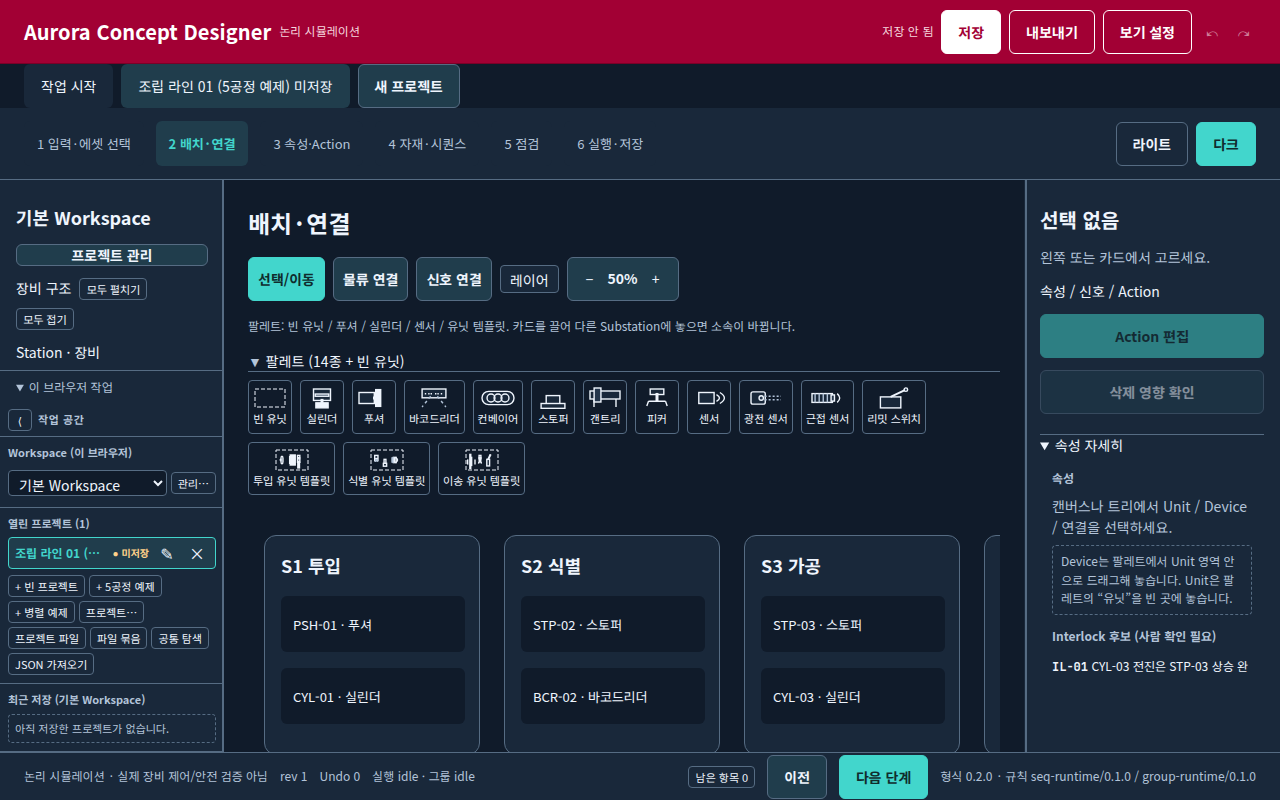
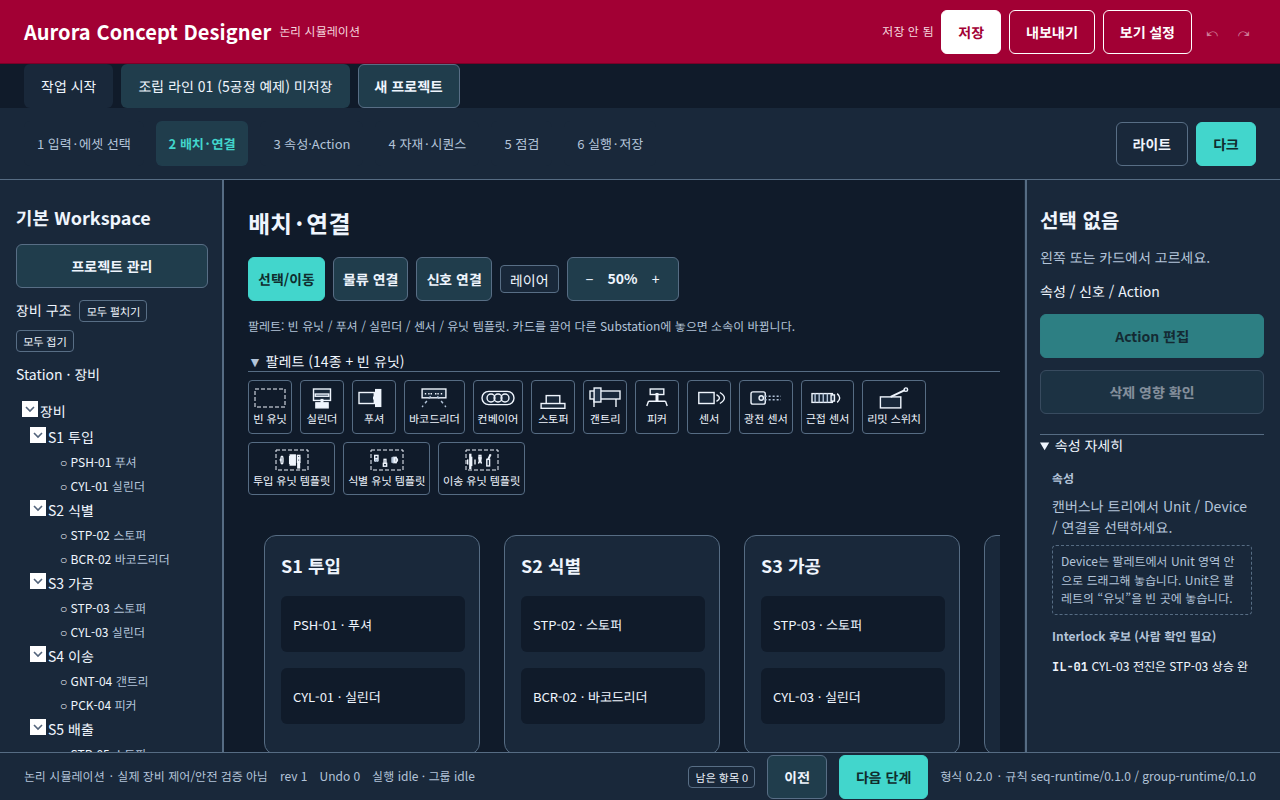
TURN-007: 펼친 브라우저 작업 칸이 장비 트리를 밀지 않게 한다
탐색기를 한 덩어리로 스크롤하고 트리 높이는 줄이지 않는다. 1280×800에서 S1부터 S5까지 보이게 스크린샷을 다시 찍었다.

Changed region(s): [[0.0, 0.3125, 0.1562, 0.9375]]

diff --git a/tests/ui-turn007.test.tsx b/tests/ui-turn007.test.tsx
@@ -231,6 +231,21 @@ describe('TURN-007 panel resize', () => {
 });
 
 describe('TURN-007 folds', () => {
+  it('AC7: the open browser-work fold does not collapse the equipment tree', async () => {
+    const block = css.slice(css.lastIndexOf('open browser-work fold'));
+    expect(block).toMatch(/\.app > \.explorer \{ overflow-x: hidden; overflow-y: auto; \}/);
+    expect(block).toMatch(/\.canvas-rail \{ flex: 0 0 auto; height: auto; min-height: auto; overflow: visible; \}/);
+    expect(block).toMatch(/\.canvas-rail \.tree \{ flex: none; min-height: auto; overflow: visible; \}/);
+    expect(block).toMatch(/\.ex-extra \{ flex: 0 0 auto; \}/);
+    const u = await mount();
+    await u.click(u.el.querySelector('.stepper [data-stepid="canvas"]')!);
+    const extra = u.el.querySelector('.explorer .ex-extra') as HTMLDetailsElement;
+    expect(extra.open).toBe(true);
+    const units = [...u.el.querySelectorAll('.canvas-rail [aria-level="2"]')].map((n) => (n.querySelector('.tnode')?.textContent ?? ''));
+    for (const code of ['S1', 'S2', 'S3', 'S4', 'S5']) expect(units.some((t) => t.includes(code))).toBe(true);
+    expect(u.el.querySelector('.canvas-rail')!.textContent).toContain('접기는 모델을 바꾸지 않습니다');
+  });
+
   it('AC6 AC7: every details starts open, the user can close one, signal mode opens the diagram, explorer collapse still works', async () => {
     const u = await mount();
     expectAllOpen(u.el, 'home');

diff --git a/src/ui/styles.css b/src/ui/styles.css
@@ -637,8 +637,11 @@ table.grid.plain td, table.grid.plain th { font-size: 14px; height: 46px; }
 
 /* TURN-007: panel widths live on .app as --exw/--libw/--propw/--runw (UserView). The 6px hit target overlays the edge. */
 .app { grid-template-columns: var(--exw, 224px) minmax(0, 1fr); }
+/* The open browser-work fold must not squeeze the equipment tree. The explorer scrolls as one column. */
+.app > .explorer { overflow-x: hidden; overflow-y: auto; }
 .explorer { position: relative; border-right: 0; }
-.canvas-rail { flex: 1 1 auto; min-height: 0; height: auto; }
+.canvas-rail { flex: 0 0 auto; height: auto; min-height: auto; overflow: visible; }
+.canvas-rail .tree { flex: none; min-height: auto; overflow: visible; }
 .ex-extra { flex: 0 0 auto; }
 .libws { position: relative; grid-template-columns: minmax(0, 1fr) var(--libw, 256px); }
 .libdetail { position: relative; width: auto; min-width: 0; overflow: hidden; display: flex; flex-direction: column; border-left: 0; }

diff --git a/docs/turns/TURN-007.md b/docs/turns/TURN-007.md
@@ -8,6 +8,7 @@
 2. `NameDialog` 입력 칸과 그 아래 안내·오류 줄 사이를 8px 로 띄웠다. Workspace·프로젝트 이름 변경·새로 만들기가 같은 창을 쓴다.
 3. 탐색기, 카드 상세, 배치·연결 속성, 실행 로그 칸을 마우스로 끌거나 ←/→ 로 16px 씩 바꿀 수 있다. 구분선은 너비 6px, `role="separator"`, 호버·끄는 중·포커스 때 `var(--accent)` 2px 선, 더블클릭은 기본 너비다. 한계는 탐색기 180–420px, 오른쪽 칸 240–560px 이고, 끄는 동안 본문이 480px 아래로 줄지 않게 막는다. 너비는 UserView(`ecd.v1.userView`)에만 저장한다.
 4. 앱의 `<details>` 는 처음 열릴 때 펼쳐진다. 팔레트 요약은 「팔레트 (14종 + 빈 유닛)」, 도면 도식 요약은 「도면 도식 · …」이다. 사용자는 접을 수 있고, 접은 상태는 저장하지 않는다. 신호 연결 모드는 도면을 연다.
+5. 「이 브라우저 작업」을 펼친 채로 두되, 탐색기는 한 덩어리로 세로 스크롤한다. 장비 구조 트리는 높이를 줄이지 않는다. 1280×800 기본 화면에서 S1~S5 Unit 줄이 보이고, 선택 안내가 접는 칸 경계에 잘리지 않는다.
 
 ## 하지 않은 것
 
@@ -23,9 +24,9 @@
 
 | 종류 | 결과 |
 |---|---|
-| 자동 테스트 | `npm test` 17파일 378개 통과. 그중 `tests/ui-turn007.test.tsx` 7개가 아이콘 CSS·대비, 이름 창 8px, 네 구분선의 pointer·키보드·더블클릭·최소/최대·본문 480px, UserView 저장, `serializeProject` 불변, 단계별 `details` 펼침, 신호 연결 때 도면 열림, 탐색기 접기를 본다. 이 숫자는 이 문서 작성 시점의 로컬 실행이다. 통과 판정은 CI 를 따른다 |
+| 자동 테스트 | `npm test` 17파일 379개 통과. `tests/ui-turn007.test.tsx` 8개 중 마지막이 트리 CSS(탐색기 `overflow-y: auto`, `.canvas-rail` 과 `.tree` 는 `flex: none`)와 S1~S5 렌더, 「이 브라우저 작업」 펼침을 본다. 이 숫자는 로컬 실행이다. 통과 판정은 CI 를 따른다 |
 | 형식 검사 | `npm run typecheck` 통과 |
-| Chrome | 156.0.8078.47, CSS 뷰포트 1280×800, devicePixelRatio 1. 콘솔 오류 0. ✎ 24×24, 글자 16px, 라이트 색 `rgb(23, 40, 63)`, 다크 색 `rgb(239, 245, 253)`. 이름 안내와 입력 칸 사이 8px. 탐색기 구분선 6×572, 커서 `col-resize`, 호버 선 `rgb(36, 91, 206)` 2px. 80px 끌면 224→304px, 새로 고침 뒤 304px. 배치·연결의 접힌 `details` 0개. 실행 로그 칸 기본 380px, 카드 상세 기본 256px |
+| Chrome | 156.0.8078.47, CSS 뷰포트 1280×800, devicePixelRatio 1. 콘솔 오류 0. 배치·연결 기본 화면에서 S1~S5 Unit 줄이 탐색기 안에 다 들어온다. 선택 안내와 「이 브라우저 작업」은 겹치지 않고, 접는 칸은 트리 아래에 있다. 너비를 224→304px 로 끌어도 Unit 5줄이 남는다. 이름 안내와 입력 칸 사이는 8px 이다 |
 
 팔레트와 도면을 둘 다 펼치면 1280×800 한 화면에 도면까지 들어오지 않는다. 위 화면과 도면으로 스크롤한 화면을 나눴다.
 
@@ -47,3 +48,5 @@
 - 창이 좁아 패널 최소 너비와 본문 480px 을 같이 지킬 수 없으면 본문 480px 을 남긴다. 앱 최소 너비 1280px 에서는 탐색기 180–420과 오른쪽 240–560이 같이 맞는다.
 - 탐색기 접기는 프로젝트 목록만 숨기고, 열 너비는 저장된 값 그대로다. 예전 `--exw: 40px` 규칙은 나중 셸이 224px 로 덮어 실제로 줄어들지 않았고, 그 동작을 유지했다.
 - 이전 참고 사진 요약에서 「기본 표시 안 함」을 뺐다. 그 칸도 처음에는 펼친다.
+- 루카 검토의 실행 오른쪽 칸은 그대로 둔다. 로그가 오른쪽 380px 열인 점은 사람 검수에서 본다.
+- ✎ 버튼은 「이 브라우저 작업」 안에 있다. 트리를 줄이지 않으니 1280×800 첫 화면에서는 트리 아래에 있어, 탐색기를 스크롤하면 보인다.
